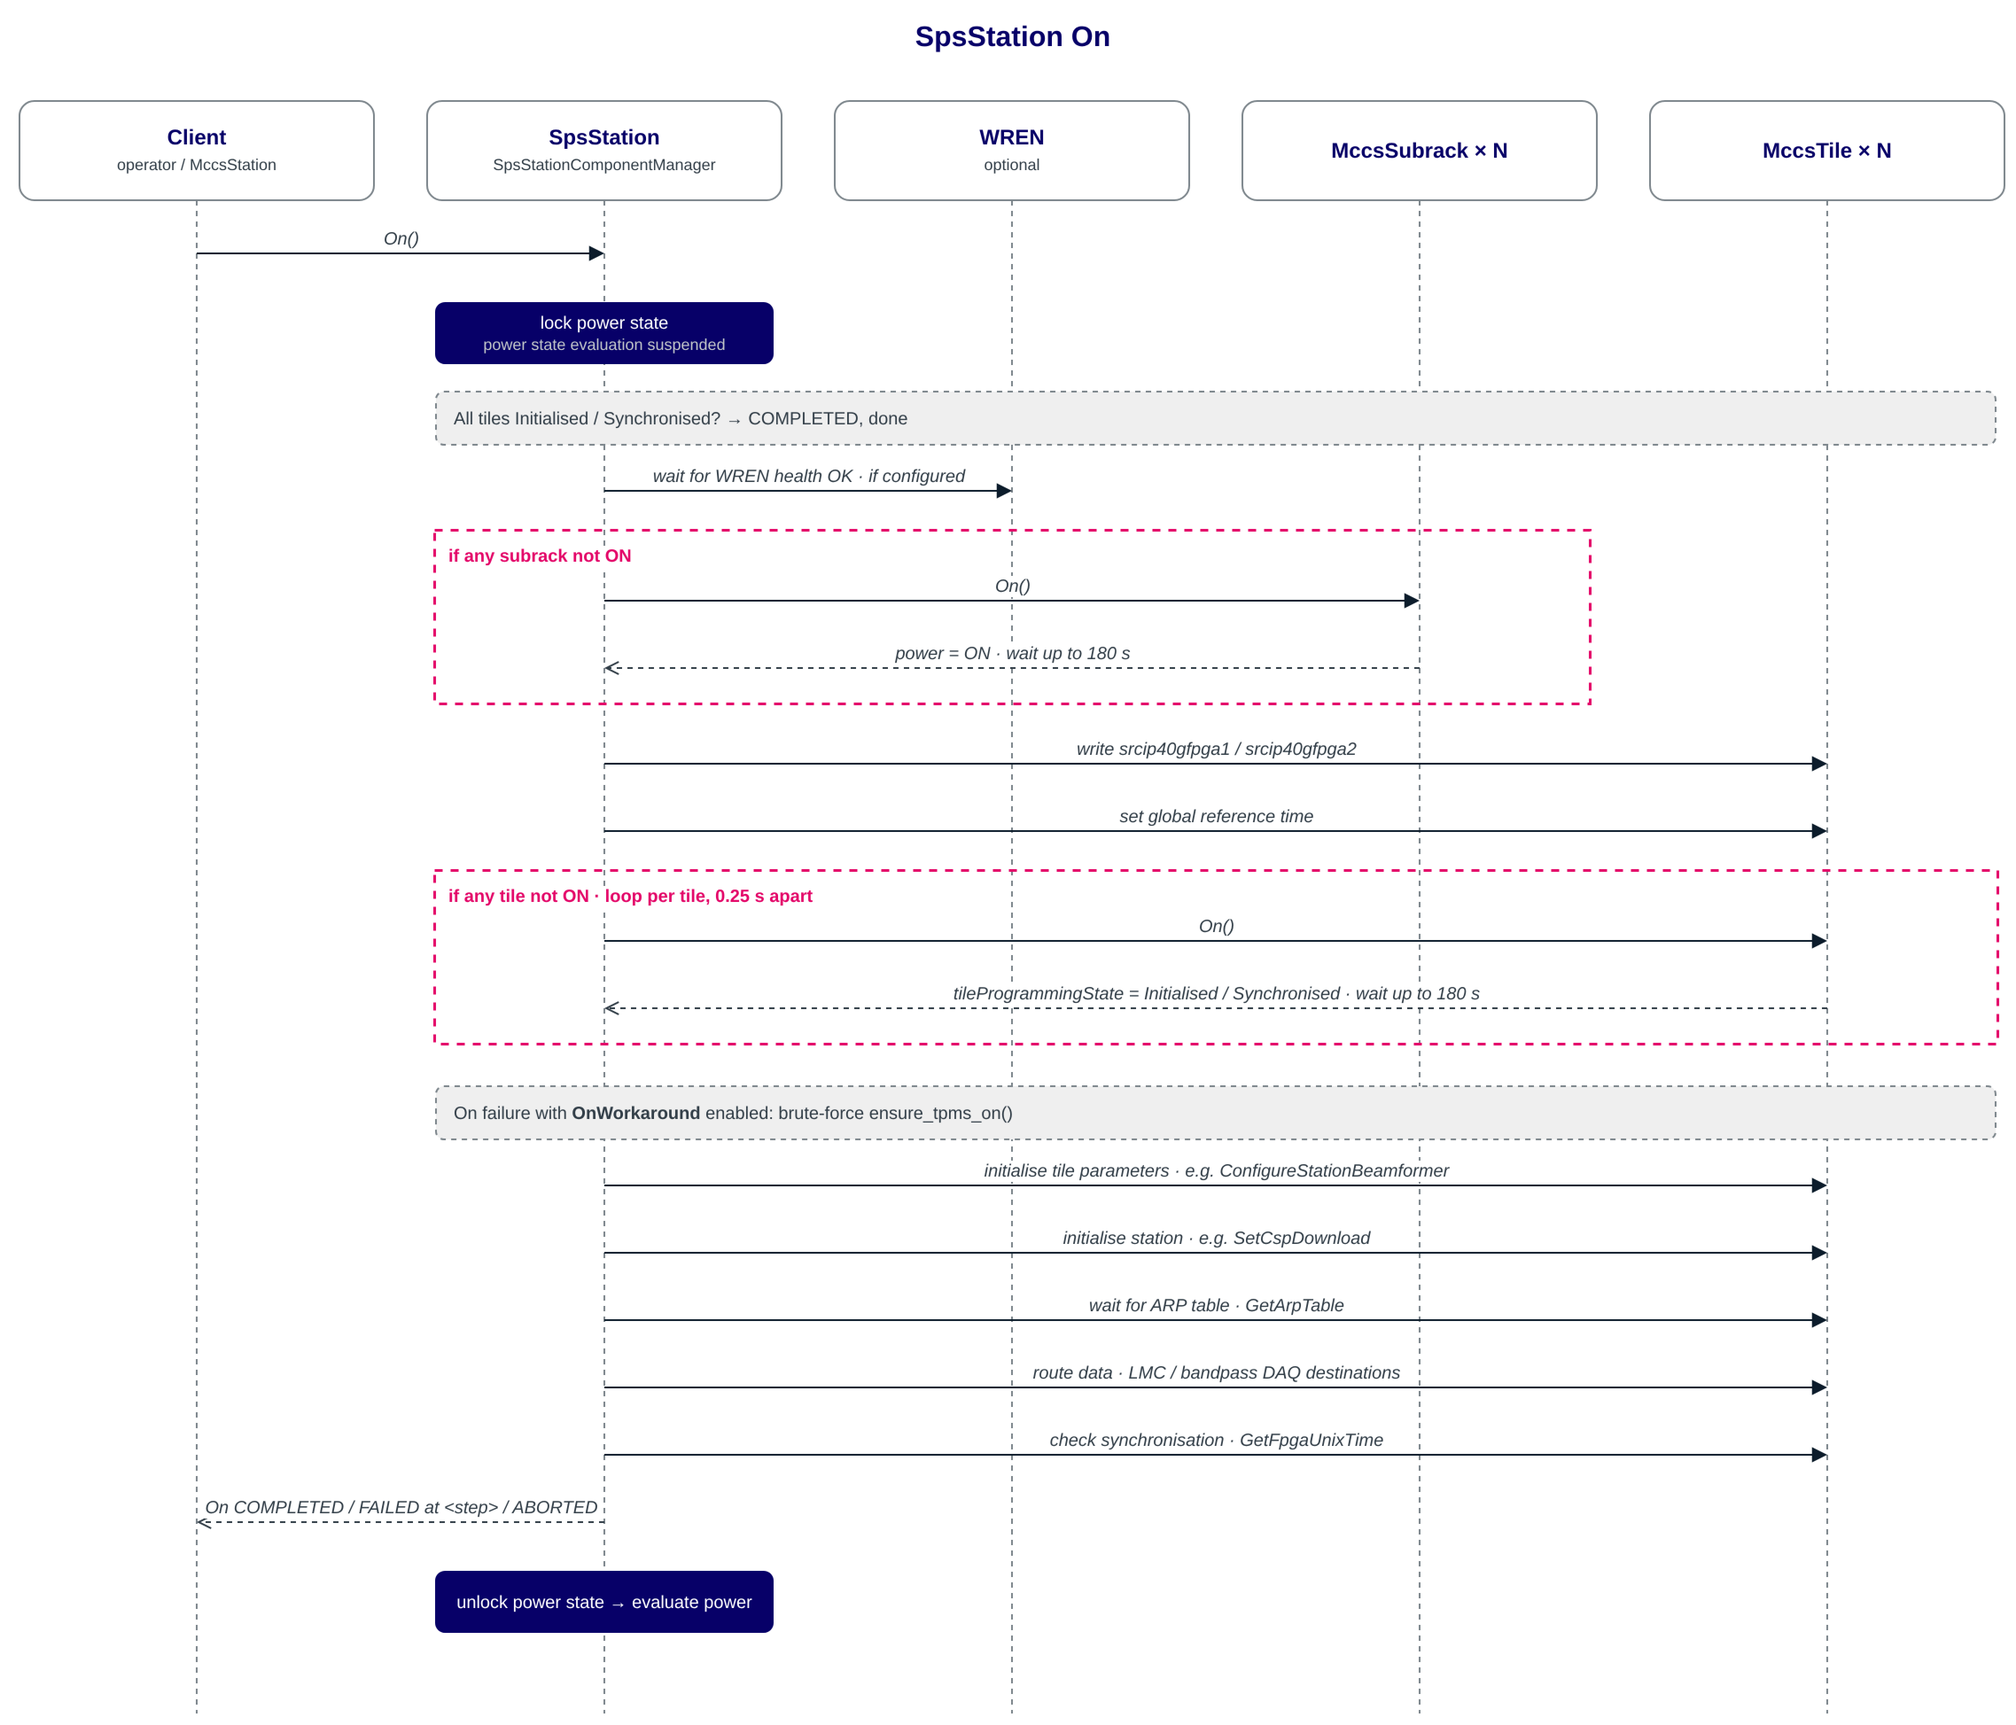
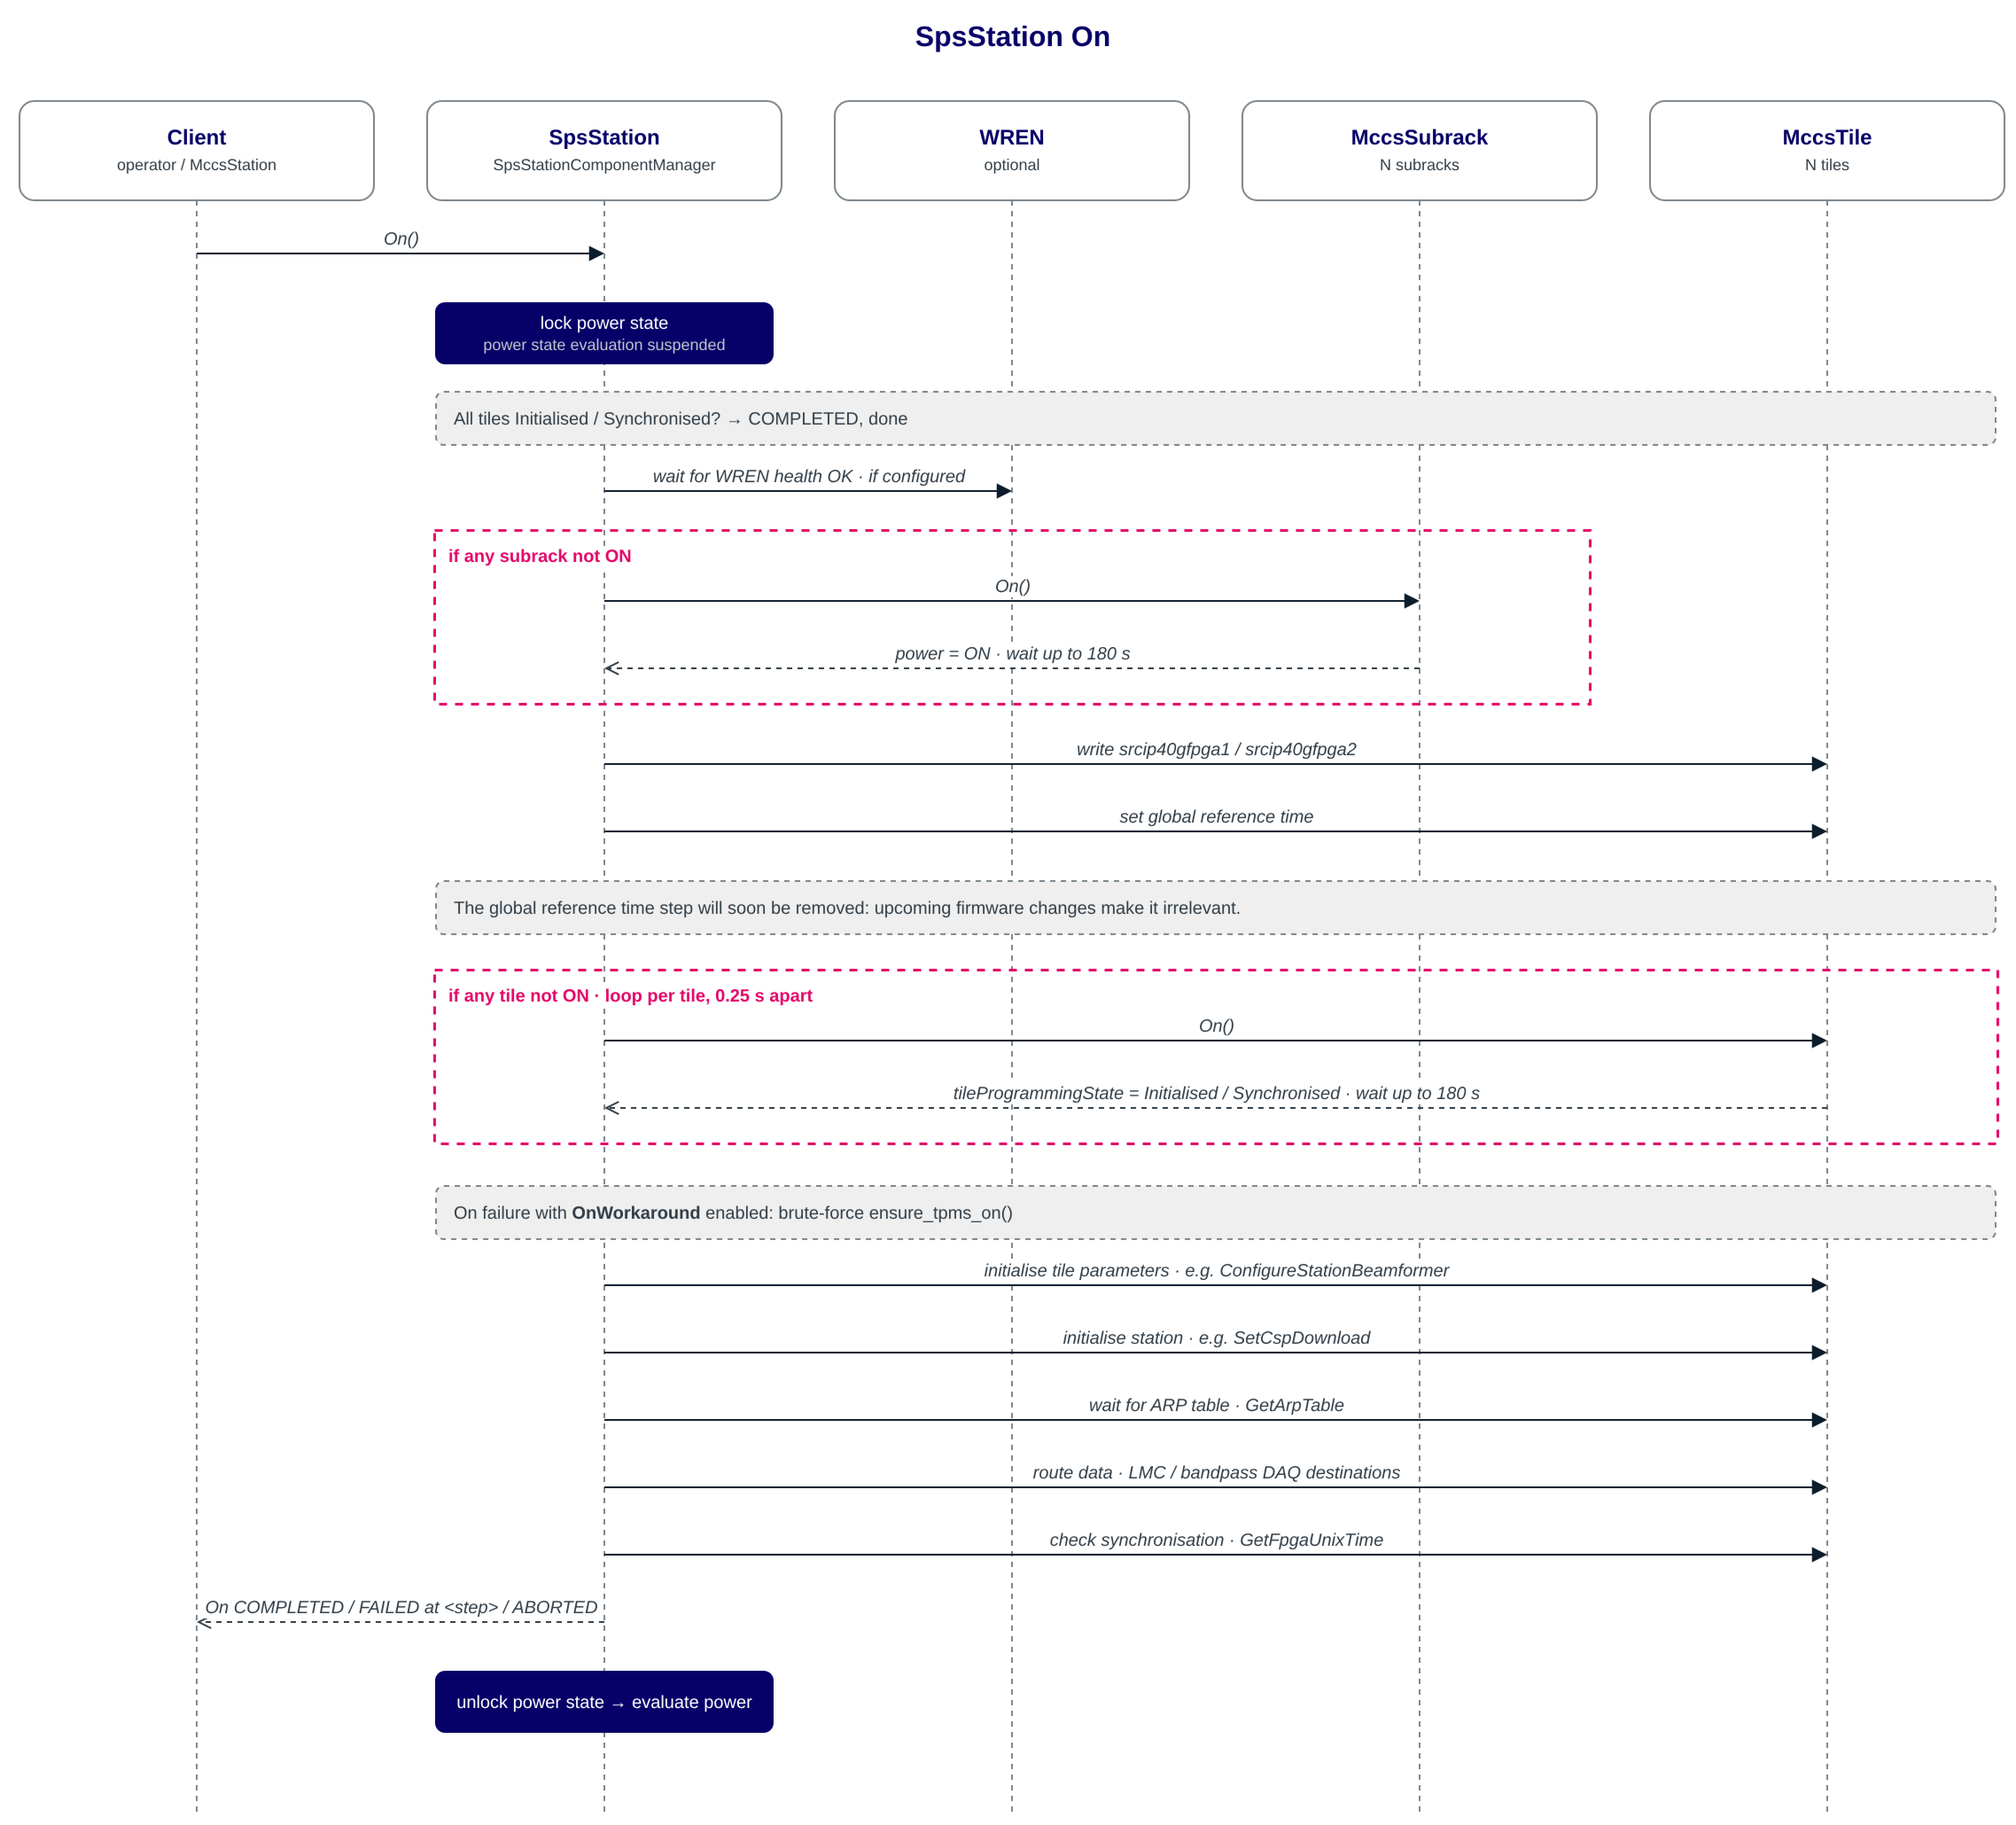
THORN-704: adding figure change requests

diff --git a/docs/src/guide/user/power_distribution.rst b/docs/src/guide/user/power_distribution.rst
@@ -86,8 +86,9 @@ The power commands of subrack are implemented as follows:
 
 - ``On``/``Off``: go through ``ComponentManagerWithUpstreamPowerSupply``, but the upstream supply is a ``PowerSupplyProxySimulator`` (starts ``ON``), so these commands don't switch any real power. ``Off`` just stops hardware polling and makes the device report ``OFF``, which the subrack's TPMs then see as ``NO_SUPPLY``. ``On`` starts polling again.
 
-.. image:: images/subrack_power_sequence.png
+.. figure:: images/subrack_power_sequence.png
    :alt: A graph of the power on/off commands sequences in the subrack
+   The subrack is under redesign and the power command structure will be simplified in the future.
 
 MccsPdu
 ^^^^^^^
@@ -132,10 +133,9 @@ The WREN power state is logged but not used.
 - ``Off``: always rejected. MCCS can't switch the subracks' PDUs from here, so
   ``STANDBY`` is the lowest state the station can be commanded to.
 
-.. TODO: diagram - SpsStation power state evaluation table/flow
-
-.. image:: images/sps_station_on_sequence.png
-  :alt: A graph of the power on command sequence in the SpsStation
+.. figure:: images/sps_station_on_sequence.png
+  :alt: A graph of the power on command sequence in the SpsStation. 
+  The global reference time step will soon be removed, as upcoming firmware changes make it irrelevant.
 
 .. image:: images/sps_station_standby_off_sequence.png
   :alt: A graph of the power off and standby commands sequences in the SpsStation
